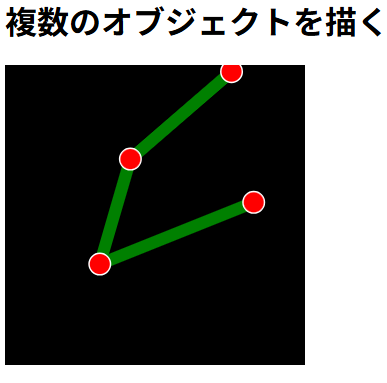
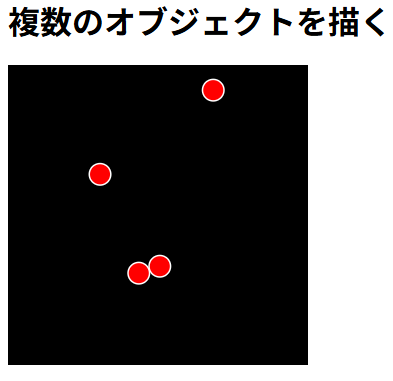
fix

diff --git a/index.html b/index.html
@@ -94,34 +94,17 @@
         };
 
         /**
-         * オブジェクトの配列を受け取り、それらを線で結び、各位置に円を描画する。
+         * オブジェクトの配列を受け取り、各位置にオブジェクトを描画する。
          * * @param {CanvasRenderingContext2D} ctx - 描画に使用するCanvas 2Dコンテキスト（グローバルに定義されていると想定）。
          * @param {MovingObject[]} objects - 描画するオブジェクトの配列。各オブジェクトはpositionプロパティを持つ。
          */
         const drawObjects = (ctx, objects) => {
-            // 折れ線を描画する
-            ctx.lineWidth = 12;
-            ctx.strokeStyle = "green";
-            ctx.lineCap = "round"; // 線の端を丸くする
-            ctx.lineJoin = "round"; // 角を丸くする
-            ctx.beginPath();
-            let first = true;
-            for (let obj of objects) {
-                if (first) {
-                    first = false;
-                    ctx.moveTo(obj.position.x, obj.position.y);
-                } else {
-                    ctx.lineTo(obj.position.x, obj.position.y);
-                }
-            }
-            ctx.stroke();
-
-            // オブジェクトの位置に複数の丸を描画する
             ctx.strokeStyle = "white";
             ctx.lineWidth = 3;
             ctx.fillStyle = "red";
             let radius = 10;
             for (let obj of objects) {
+                // 丸を描画する。
                 ctx.beginPath();
                 ctx.arc(obj.position.x, obj.position.y, radius, 0, 2 * Math.PI, false);
                 ctx.stroke();
